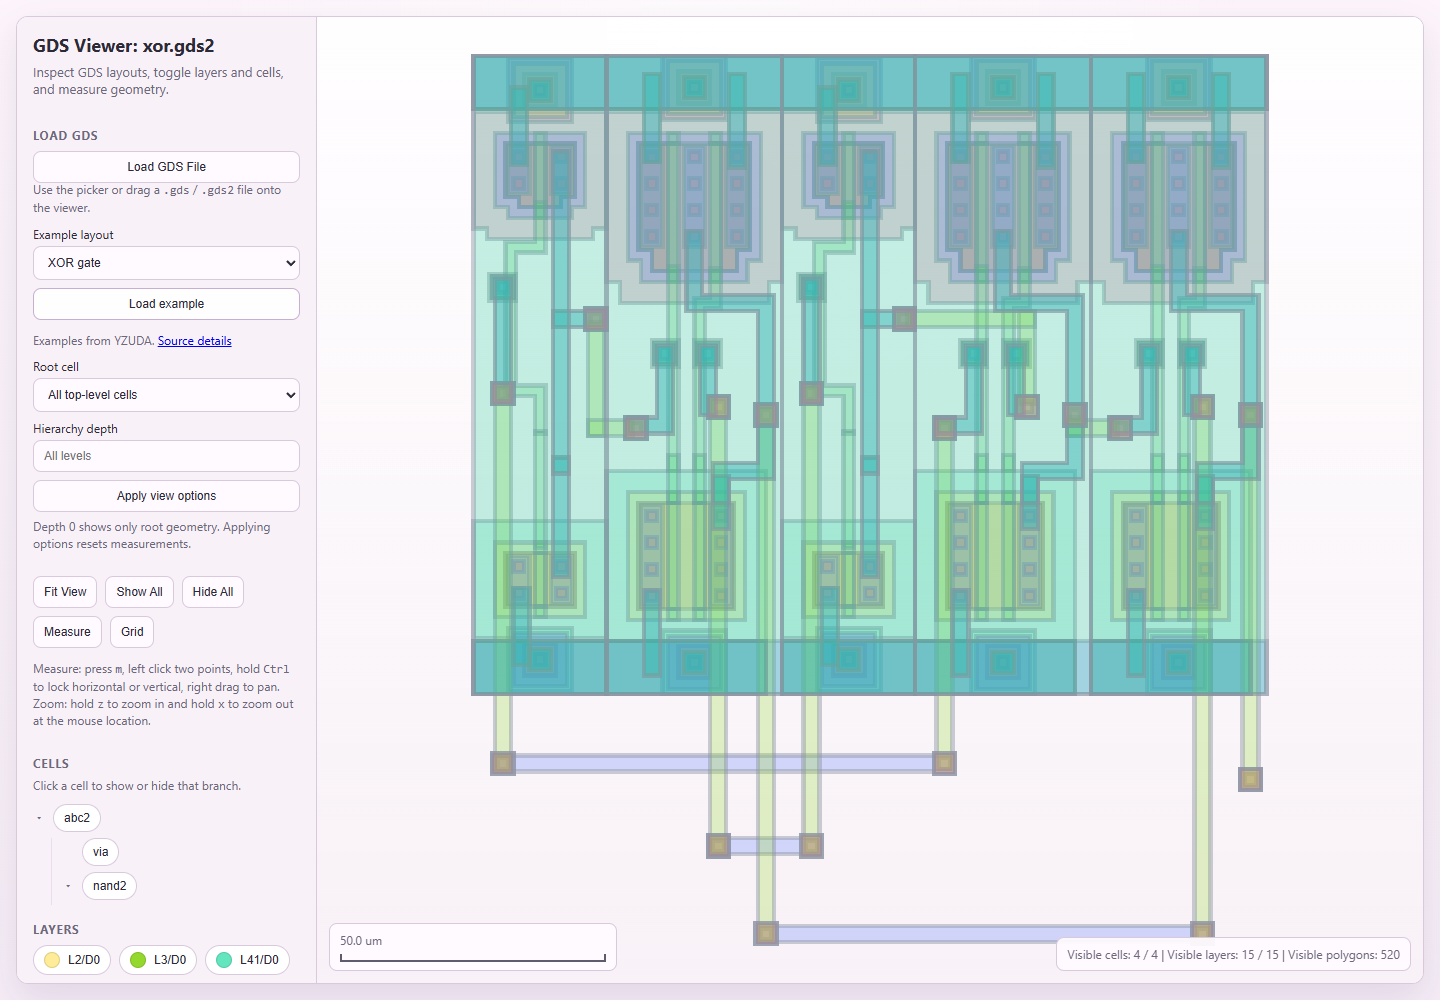
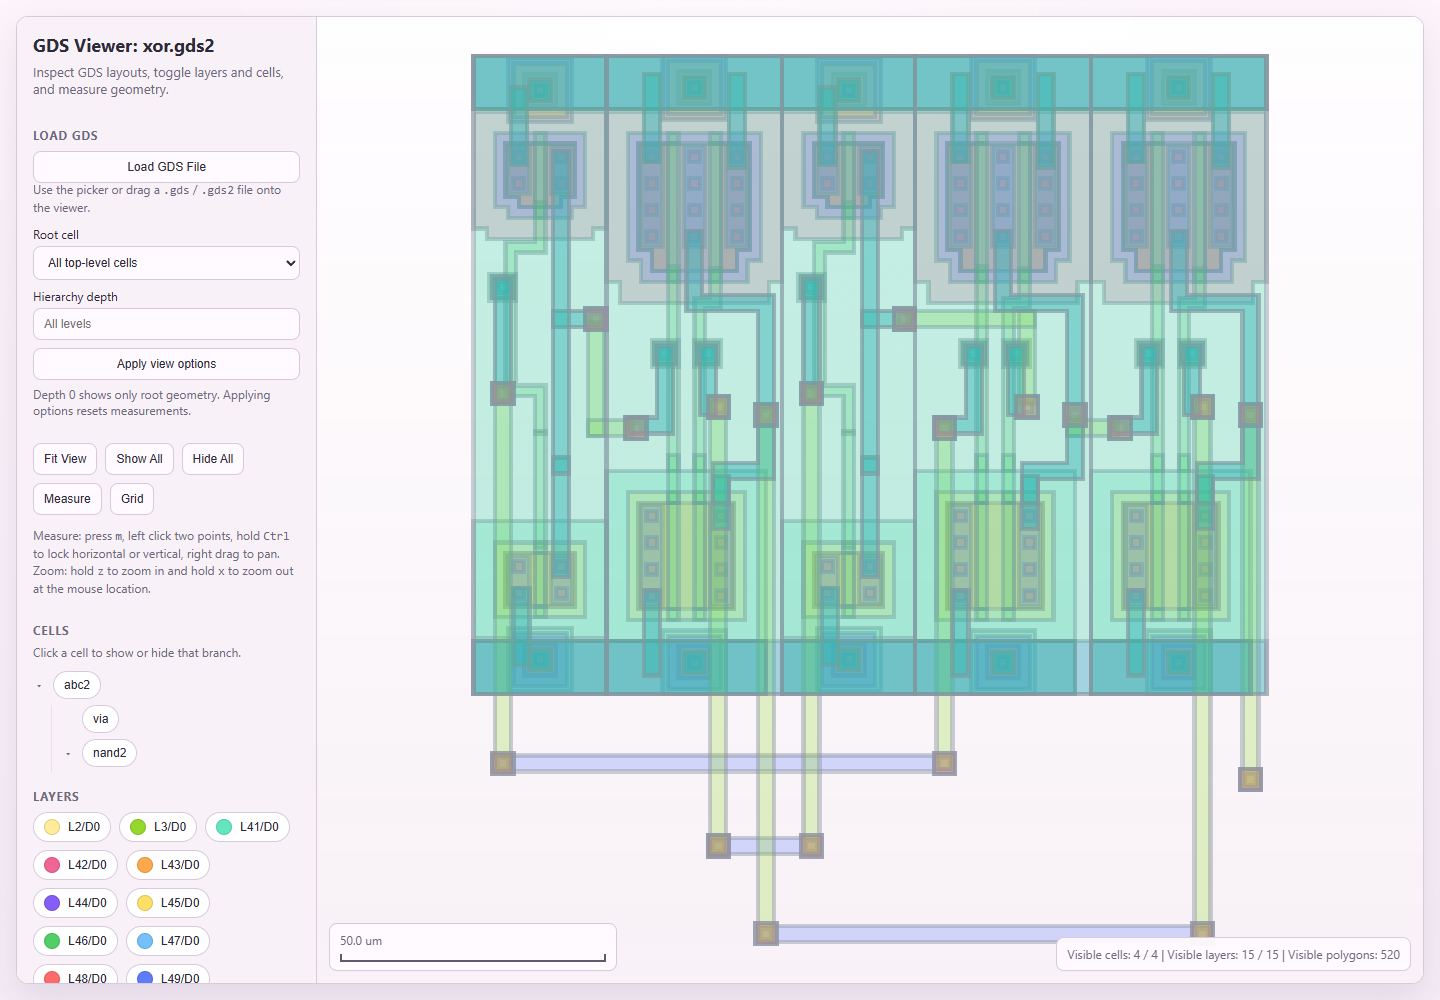
fix: keep example layouts in documentation only

Changed region(s): [[0.0, 0.217, 0.1875, 0.992]]

diff --git a/index.html b/index.html
@@ -391,18 +391,6 @@
           <input id="file-input" type="file" accept=".gds,.gds2" hidden>
         </div>
         <p class="section-hint">Use the picker or drag a <code>.gds</code> / <code>.gds2</code> file onto the viewer.</p>
-        <div class="load-options">
-          <label for="demo-select">Example layout
-            <select id="demo-select">
-              <option value="xor.gds2">XOR gate</option>
-              <option value="nand2.gds2">NAND gate</option>
-              <option value="inv.gds2">Inverter</option>
-              <option value="1Kpolyg.gds">1,000 polygons</option>
-            </select>
-          </label>
-          <button id="load-demo-button" type="button">Load example</button>
-        </div>
-        <p class="section-hint">Examples from YZUDA. <a href="./examples/yzuda/README.md">Source details</a></p>
       </div>
 
       <form id="view-options" class="load-options">
@@ -461,7 +449,6 @@
   <!-- PixiJS is vendored locally (see vendor/VENDORED.md); no CDN needed. -->
   <script src="./vendor/pixi.min.js"></script>
   <script src="./gds_parser.js"></script>
-  <script src="./examples/yzuda/demo-data.js"></script>
   <script src="./gds_viewer.js"></script>
 </body>
 </html>

diff --git a/tests/browser-smoke.js b/tests/browser-smoke.js
@@ -81,16 +81,6 @@ runButton.addEventListener("click", async () => {
       await load(bytes.hierarchy, "hierarchy.gds2", true);
       assert(/Visible polygons: 9$/.test(status()), status());
     });
-    await check("all offline demo examples render", async () => {
-      for (const name of ["inv.gds2", "nand2.gds2", "xor.gds2", "1Kpolyg.gds"]) {
-        get("demo-select").value = name;
-        get("load-demo-button").click();
-        await until(() => ready() && warning() === "" && doc.title === `GDS Viewer: ${name}`, `demo ${name}`);
-        assert(!/Visible polygons: 0$/.test(status()), status());
-        assert(doc.querySelectorAll("canvas").length === 1, "Demo reload duplicated canvas");
-      }
-      await load(bytes.hierarchy, "hierarchy.gds");
-    });
     await check("root selection and depth controls", async () => {
       await apply("TOP", "0");
       assert(/Visible polygons: 1$/.test(status()), status());

diff --git a/gds_viewer.js b/gds_viewer.js
@@ -1306,16 +1306,6 @@
   }
 
   loadFileButton.addEventListener("click", () => fileInput.click());
-  document.getElementById("load-demo-button").addEventListener("click", async () => {
-    const name = document.getElementById("demo-select").value;
-    const encoded = globalThis.GdsDemoData?.[name];
-    if (!encoded) {
-      showWarning("Example data is unavailable. Keep the examples folder beside index.html.");
-      return;
-    }
-    const bytes = Uint8Array.from(atob(encoded), (character) => character.charCodeAt(0));
-    await loadGdsFile(new File([bytes], name));
-  });
   fileInput.addEventListener("change", async () => {
     const [file] = fileInput.files || [];
     try {

diff --git a/README.md b/README.md
@@ -6,26 +6,24 @@ connection is required by the viewer.
 
 ![GDS Viewer displaying YZUDA's XOR gate example](docs/viewer-xor.png)
 
-## Try the examples
+## Illustration and tutorial files
 
-Open `index.html`, choose an **Example layout**, and select **Load example**.
-The bundled [YZUDA GDSII examples](https://www.yzuda.org/download/_GDSII_examples.html)
-include an inverter, NAND gate, XOR gate, and a random layout with 1,000 polygons.
-They load locally with no download or server needed. The screenshot above shows
-`xor.gds2` with all layers visible; text labels are not rendered.
-Original files, attribution, checksums, and the offline payload regeneration command
-are in [examples/yzuda](examples/yzuda/README.md).
+The screenshot shows the [YZUDA XOR gate example](https://www.yzuda.org/download/_GDSII_examples.html)
+loaded with **Load GDS File**, with all layers visible. Text labels are not rendered.
+The inverter, NAND, XOR, and 1,000-polygon files are kept for documentation only.
+See the [illustration tutorial](docs/layout-tutorial.md) and
+[source attribution and checksums](examples/yzuda/README.md).
 
 ## Open a layout
 
 Open `index.html` in a modern browser, then choose **Load GDS File** or drop a `.gds`
-or `.gds2` file onto the viewer. Keep `gds_parser.js`, `gds_viewer.js`, and the `vendor` and `examples` folders
+or `.gds2` file onto the viewer. Keep `gds_parser.js`, `gds_viewer.js`, and the `vendor` folder
 beside the HTML file. You can also serve this folder from any static web host,
 including under a subdirectory. There is no install or build step.
 
 `open_gds_viewer.bat` on Windows and `./open_gds_viewer.sh` on macOS/Linux open the
 page with the default browser. They do not start a server and accept no arguments.
-Direct `file://` loading of the bundled XOR example was tested in headless Microsoft
+Direct `file://` loading of the XOR documentation file was tested in headless Microsoft
 Edge on Windows. Native file-picker dialogs and macOS/Linux launchers were not
 tested for this update; see [demo validation](docs/yzuda-demo-validation.md).
 
@@ -65,8 +63,7 @@ view model retain the previous viewer's rounding to 0.001 library user units.
 ## Distribution
 
 The application consists of `index.html`, `gds_parser.js`, `gds_viewer.js`, and
-`vendor/pixi.min.js`, plus `examples/yzuda/demo-data.js` for the offline demos.
-Include the `vendor` notices, `examples/yzuda/README.md` attribution, and `LICENSE` when distributing it;
+`vendor/pixi.min.js`. Include the `vendor` notices and `LICENSE` when distributing it;
 the launchers and README are optional conveniences. No generated Python package is
 needed. PixiJS version, checksum, source, and update instructions are recorded in
 [vendor/VENDORED.md](vendor/VENDORED.md).
@@ -105,6 +102,6 @@ Stop it with Ctrl+C. Also inspect the viewer visually and exercise a native file
 
 ## License
 
-Viewer code: MIT. See `LICENSE` and the vendored asset notices. Third-party demo
+Viewer code: MIT. See `LICENSE` and the vendored asset notices. Third-party documentation
 layouts have separate [source attribution](examples/yzuda/README.md); no explicit
 license is stated on their download page.

diff --git a/docs/yzuda-demo-validation.md b/docs/yzuda-demo-validation.md
@@ -1,21 +1,22 @@
-# YZUDA demo validation — 2026-09-06
+# Documentation layout validation — 2026-09-06
 
 - Syntax checks passed for `gds_parser.js`, `gds_viewer.js`, and `tests/browser-smoke.js`.
-- Node 24.14.1: `node --test --test-isolation=none tests/*.test.cjs` passed.
-  The default test runner was blocked by sandbox process spawning (`spawn EPERM`).
-- Headless Microsoft Edge on Windows: all 15 browser harness checks passed, including
-  all four demo examples, `.gds2` picker-input/drop events, hierarchy options,
-  visibility, navigation, measurement, grid, scale, pointer readout, resize, stale
-  loads, errors, and graphics cleanup.
-- XOR demo rendered at both `/` and `/viewer/` on the loopback static helper and
-  directly from `file://`, with 4 visible cells, 15 layer/datatype pairs, and 520
-  visible polygons. The root/subdirectory viewer pages enforce `connect-src 'none'`.
-- `docs/viewer-xor.png` is an actual 1440 × 1000 browser screenshot from `/viewer/`,
-  with the XOR demo loaded and every layer visible. It was visually inspected.
-- Native OS file-picker dialogs were not exercised; file selection was tested
-  through DOM file input events. No macOS/Linux launcher checks were performed.
+- Node 24.14.1: `node --test --test-isolation=none tests/*.test.cjs` passed all 25 tests.
+  This invocation avoids the sandbox's test-process spawning restriction.
+- Headless Microsoft Edge on Windows: all 14 browser harness checks passed,
+  including `.gds2` input/drop events, hierarchy options, visibility, navigation,
+  measurement, grid, scale, pointer readout, resize, stale loads, errors, and cleanup.
+- Verified that no example selector/button exists and startup requests no example
+  assets at `/`, `/viewer/`, and direct `file://` opening.
+- Loaded `xor.gds2` through the normal file input at all three locations: 4 visible
+  cells, 15 layer/datatype pairs, and 520 visible polygons.
+- `docs/viewer-xor.png` is a visually inspected 1440 × 1000 screenshot from `/viewer/`
+  with all layers visible and no example panel. The README and tutorial share it.
+- Native OS picker dialogs were not exercised; browser automation supplied files
+  through the normal file input. No macOS/Linux launcher checks were performed.
 
-Null padding acceptance scans trailing bytes once without copying them. The offline
-demo script retains base64 copies of the four small source files; loading one decodes
-that file and enters the existing serialized file-loading path. This adds no general
-resource limits and is not a geometry correctness oracle for the external examples.
+The documentation files are not application dependencies. Removing the demo script
+also removes its startup base64 payload and decoding path. File parsing retains
+existing resource limitations; the external examples are not geometry correctness
+oracles. The `.gds2` extension and ENDLIB null-padding support remain available for
+user-selected files.

diff --git a/examples/yzuda/README.md b/examples/yzuda/README.md
@@ -1,4 +1,4 @@
-# YZUDA demonstration layouts
+# YZUDA documentation layouts
 
 Downloaded on 2026-09-06 from [GDSII Layout Examples](https://www.yzuda.org/download/_GDSII_examples.html).
 These third-party example layouts are attributed to YZUDA; the viewer's MIT license
@@ -13,12 +13,12 @@ does not relicense them. The source page supplies no explicit license statement.
 
 The GDS bytes are unchanged, including zero padding after ENDLIB in the gate files.
 The NAND and XOR downloads both name their root `abc2`; the labels above follow the
-source page. These files are demo inputs, not independent geometry reference models.
+source page. These files are documentation inputs, not independent geometry reference models.
 Text labels are skipped by the viewer; the screenshot shows supported geometry.
 
-`demo-data.js` contains the same bytes encoded as base64 so **Load example** works
-without fetching files, including when opening the viewer locally. Regenerate it
-after deliberately replacing source files with `node examples/yzuda/build-demo.cjs`.
+These files support the README illustration and [tutorial](../../docs/layout-tutorial.md).
+Use the normal **Load GDS File** picker to open them. They are not loaded by the
+viewer at startup and are not required in an application distribution.
 
 SHA256:
 

diff --git a/docs/layout-tutorial.md b/docs/layout-tutorial.md
@@ -1,0 +1,21 @@
+# Reproduce the README illustration
+
+The YZUDA layouts are documentation examples. The viewer opens your own files
+through its normal picker or drag-and-drop controls.
+
+1. Open `index.html` in a browser.
+2. Select **Load GDS File** and choose `examples/yzuda/xor.gds2` from this repository.
+3. Leave **Root cell** on **All top-level cells** and **Hierarchy depth** blank.
+4. Select **Show All**, then **Fit View** to reproduce the layout below.
+
+![XOR layout with all layers visible](viewer-xor.png)
+
+Toggle a layer chip to inspect overlapping geometry, drag to pan, or scroll to zoom.
+Select **Measure**, then click two points to place a ruler; press **m** to leave
+measurement mode. **Fit View** returns to the full layout.
+
+For other illustrations, load `inv.gds2`, `nand2.gds2`, or `1Kpolyg.gds` from the same
+folder. The files are unchanged downloads from [YZUDA](https://www.yzuda.org/download/_GDSII_examples.html);
+see [attribution and checksums](../examples/yzuda/README.md). The gate files contain
+text elements the viewer does not render. These illustrations are not proof of
+complete GDSII compatibility.

diff --git a/AGENTS.md b/AGENTS.md
@@ -32,8 +32,7 @@ not proof of complete GDSII compatibility; see README.md for limitations.
   pan/zoom/fit, measurements, grid, pointer readout, and scale bar. Serializes rendering
   and rejects stale file reads; releases old graphics when replacing the view.
 - `vendor/`: the pinned PixiJS asset and provenance/license notices.
-- `examples/yzuda/`: attributed source layouts and a generated offline demo payload.
-  Regenerate `demo-data.js` with `node examples/yzuda/build-demo.cjs`; do not hand-edit it.
+- `examples/yzuda/`: attributed layouts for README illustrations and documentation only.
 - `tests/parser.test.cjs`: compares the JavaScript model against saved independent
   reference fixtures and checks malformed inputs and unsupported paths.
 - `tests/static.test.cjs`: distribution structure, absence of backend calls, and static
